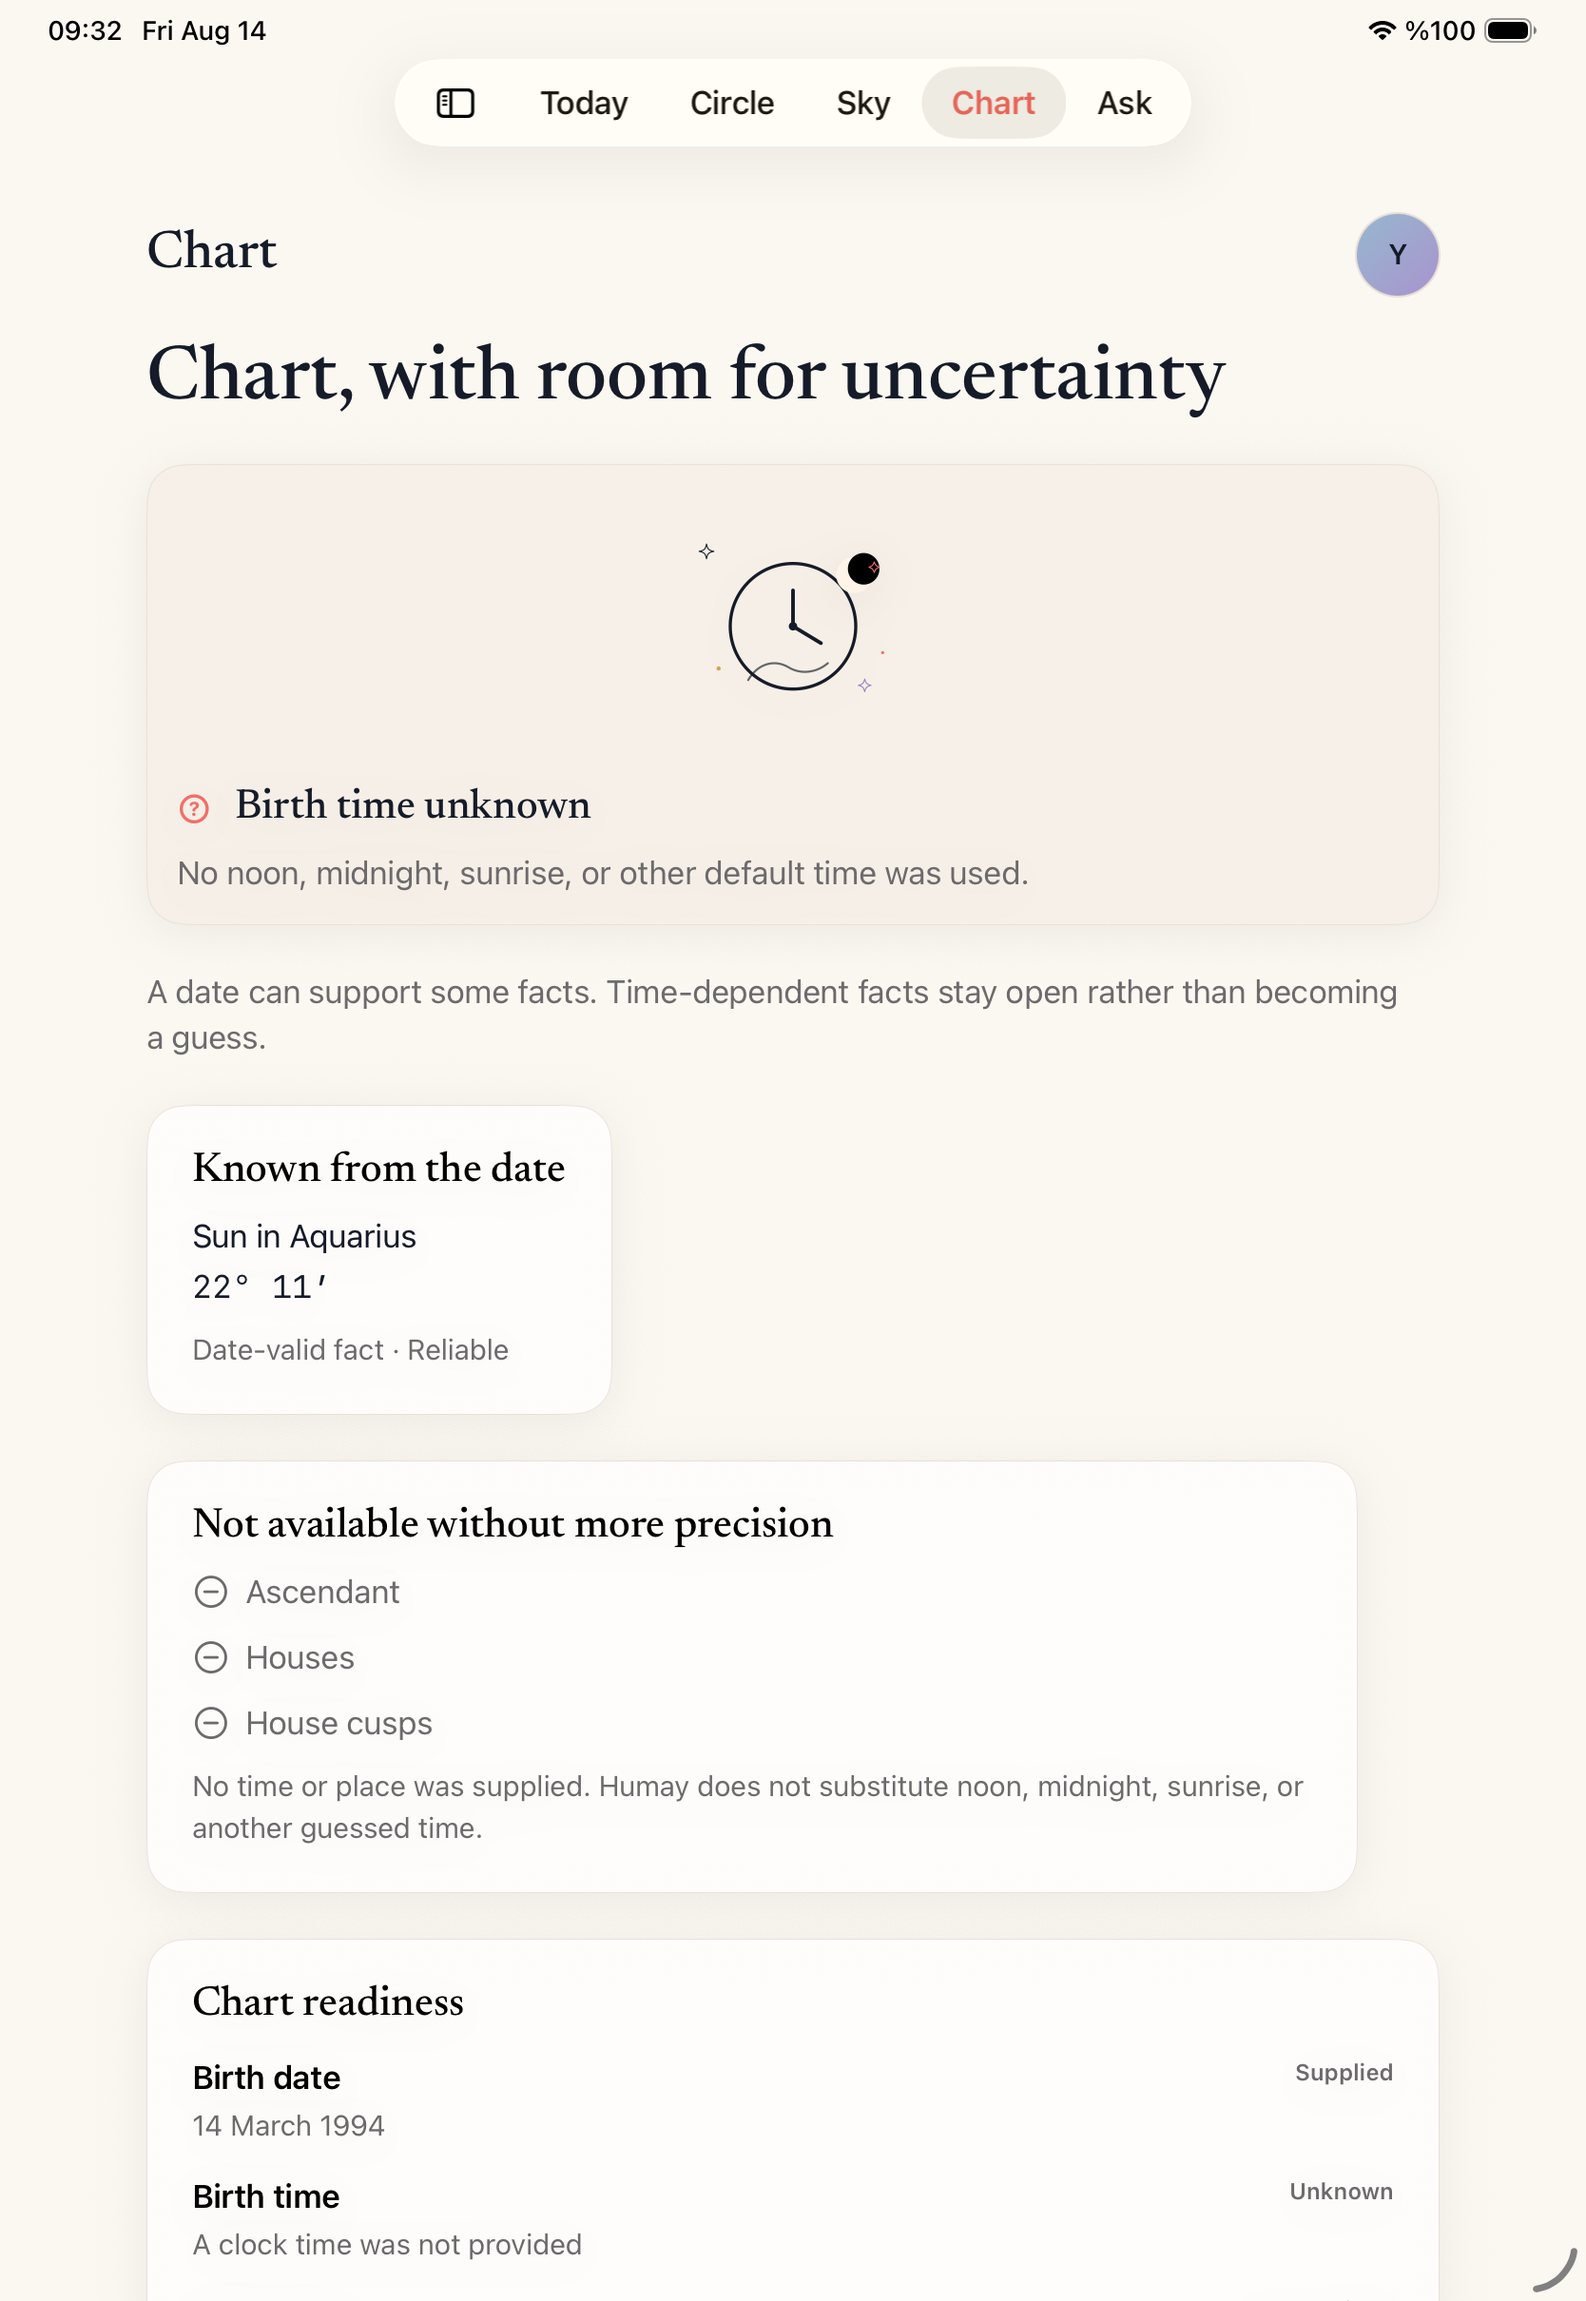
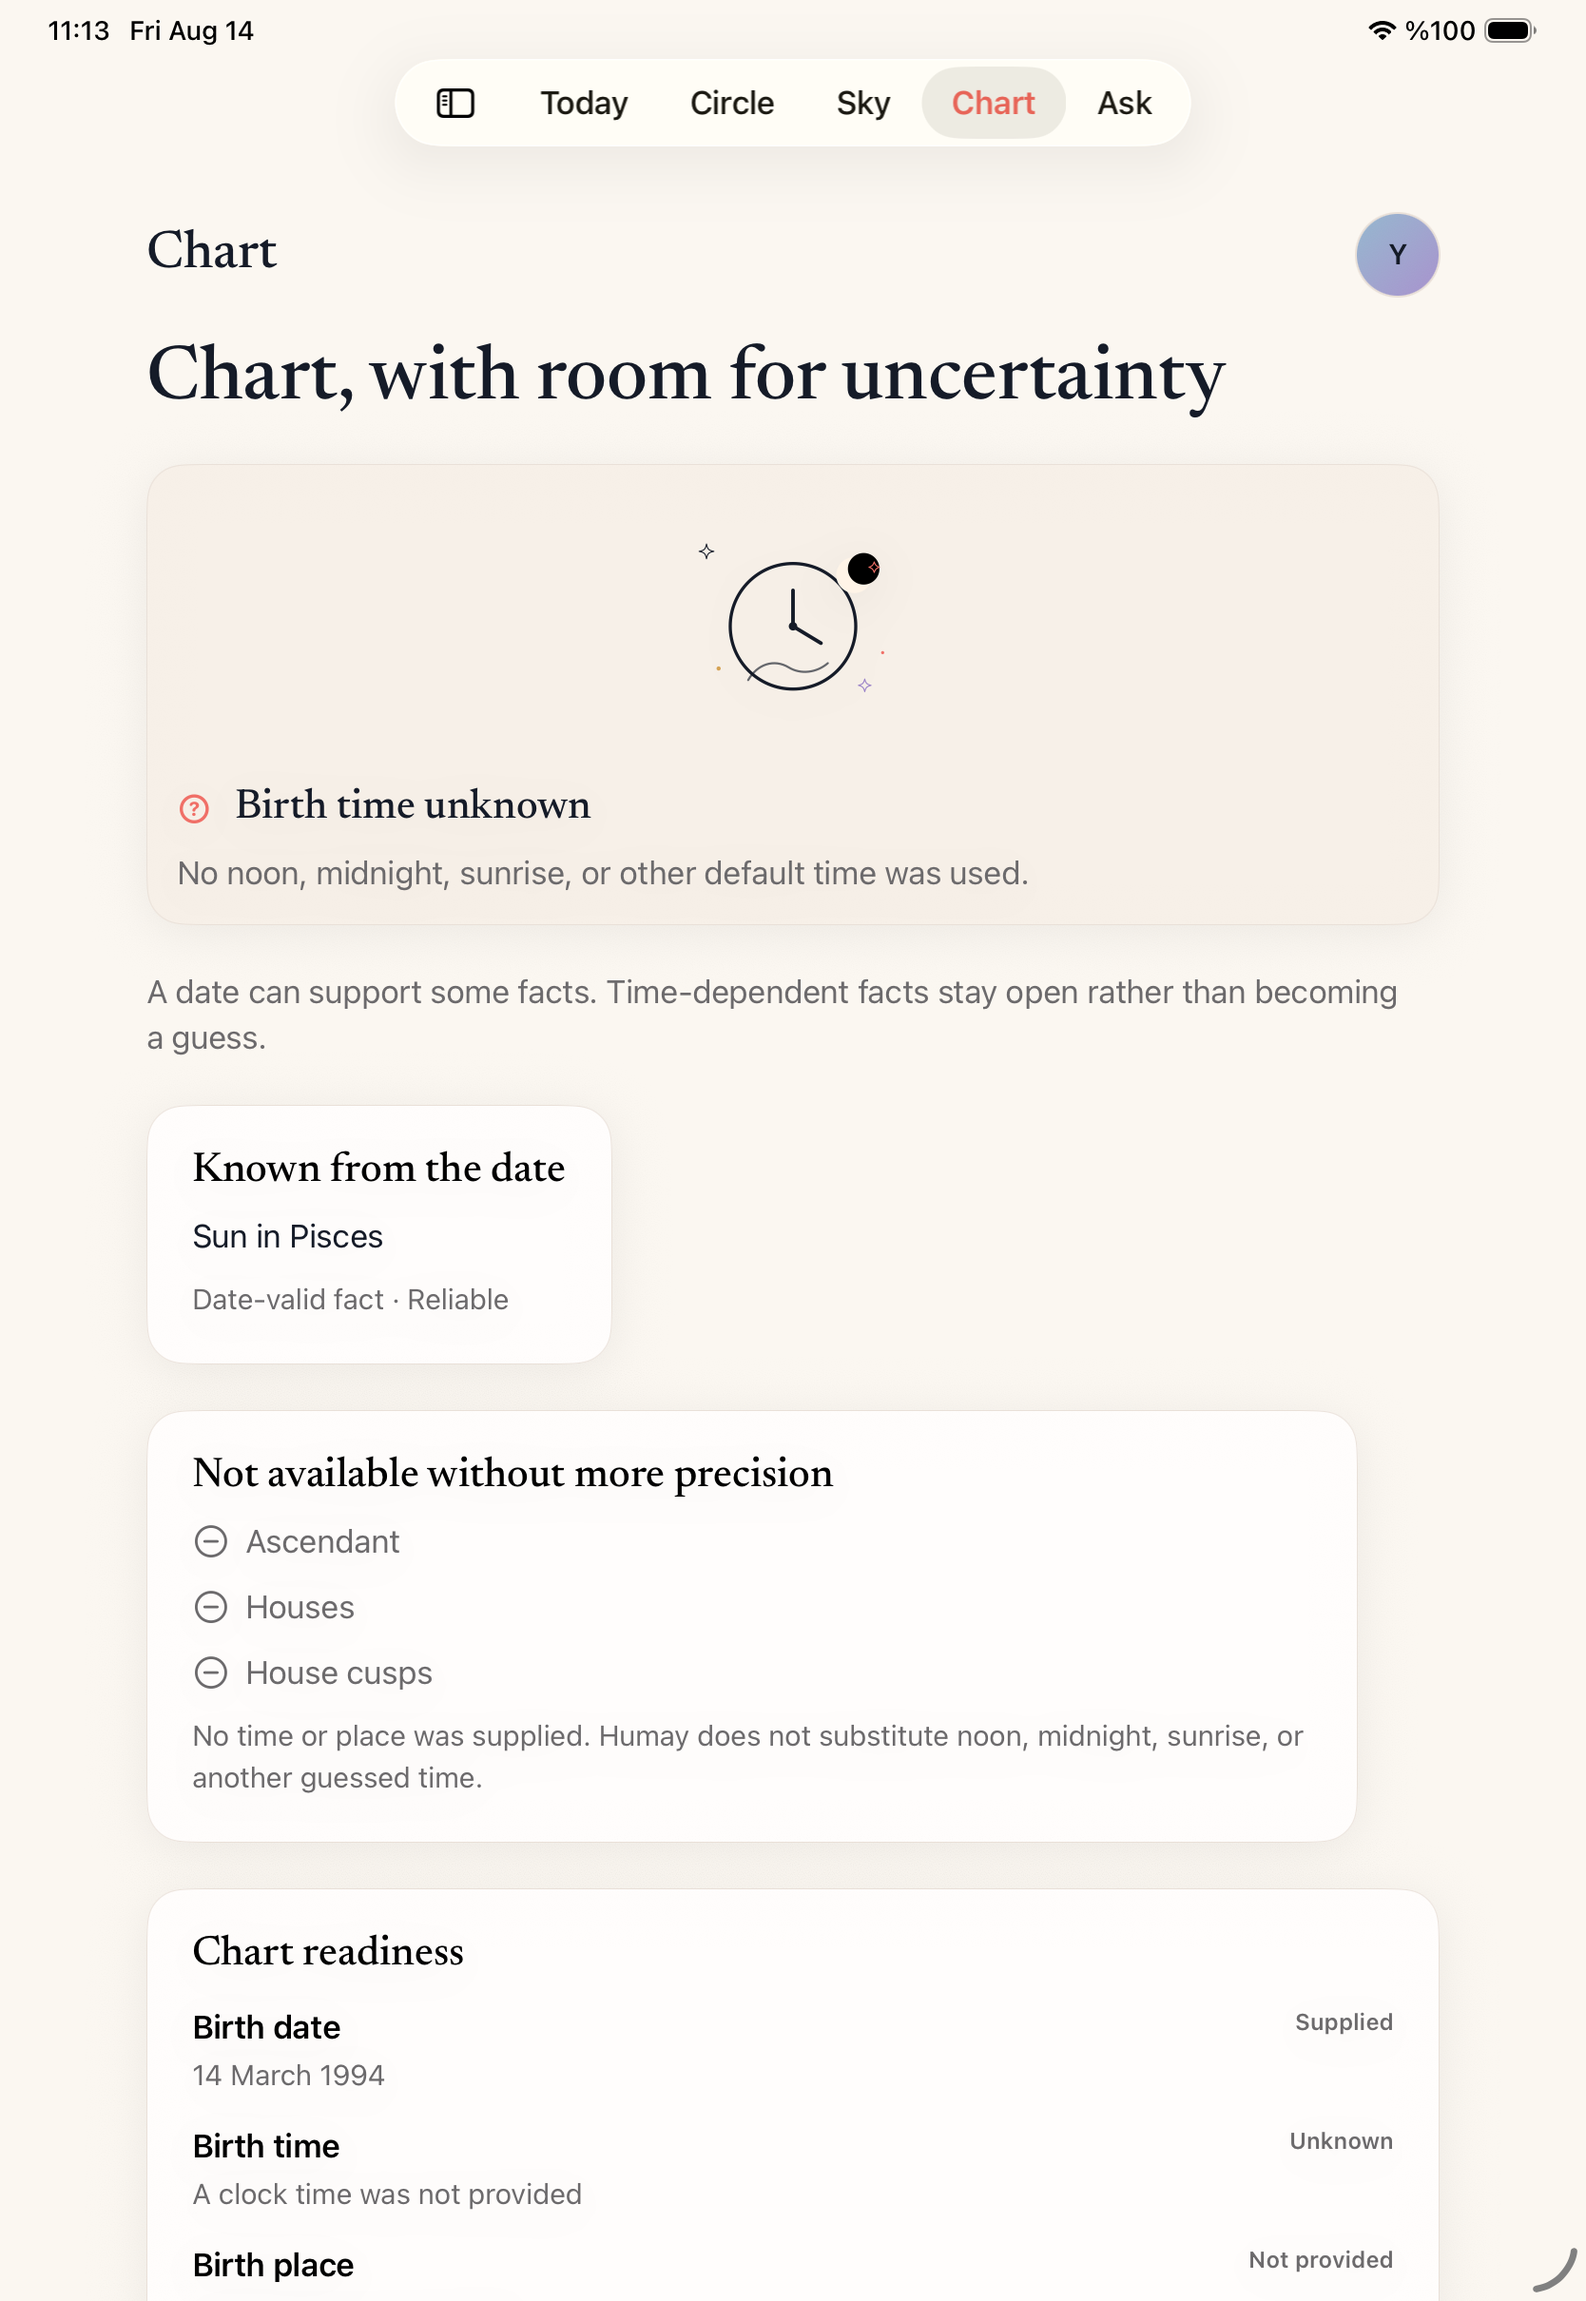
Refine unknown-time chart fact precision

diff --git a/HumayTests/D4FeatureModelTests.swift b/HumayTests/D4FeatureModelTests.swift
@@ -104,12 +104,19 @@ struct D4FeatureModelTests {
 
         #expect(missingInputs == [.birthTime, .birthPlace])
         #expect(unknownTime.knownFact.point == .sun)
-        #expect(unknownTime.knownFact.house == nil)
+        #expect(unknownTime.knownFact.sign == .pisces)
+        #expect(unknownTime.knownFact.reliability == .reliable)
+        let storedPropertyNames = Set(Mirror(reflecting: unknownTime.knownFact).children.compactMap(\.label))
+        #expect(storedPropertyNames.contains("point"))
+        #expect(storedPropertyNames.contains("sign"))
+        #expect(storedPropertyNames.contains("reliability"))
+        #expect(!storedPropertyNames.contains("position"))
+        #expect(!storedPropertyNames.contains("degree"))
+        #expect(!storedPropertyNames.contains("house"))
         #expect(unknownTime.withheldFacts.contains(.ascendant))
         #expect(unknownTime.withheldFacts.contains(.houses))
         #expect(input.chart.payload == nil)
         #expect(unknownTime.readiness.birthTime == .unknown)
-        #expect(unknownTime.knownFact.factText == "Sun in Aquarius at 22° 11′")
 
         let readiness = DevelopmentD4Sample.unknownTimeReadiness
         #expect(readiness.birthTime == .unknown)

diff --git a/Humay/Presentation/Chart/ChartView.swift b/Humay/Presentation/Chart/ChartView.swift
@@ -389,11 +389,8 @@ private struct ChartUnknownTimeState: View {
                             .font(HumayTypography.sectionTitle)
                             .accessibilityIdentifier("chart.unknown-time.known-facts")
                         VStack(alignment: .leading, spacing: HumaySpacing.extraSmall) {
-                            Text("\(context.knownFact.point.label) in \(context.knownFact.position.sign.displayName)")
+                            Text("\(context.knownFact.point.label) in \(context.knownFact.sign.displayName)")
                                 .font(HumayTypography.body)
-                                .foregroundStyle(Color.humayTextPrimary)
-                            Text(context.knownFact.degreeText)
-                                .font(HumayTypography.technical)
                                 .foregroundStyle(Color.humayTextPrimary)
                         }
                         .accessibilityElement(children: .combine)

diff --git a/Humay/Presentation/D4/DevelopmentD4Sample.swift b/Humay/Presentation/D4/DevelopmentD4Sample.swift
@@ -64,13 +64,10 @@ enum DevelopmentD4Sample {
     static let unknownTimeContext = ChartUnknownTimeContext(
         dateLabel: "14 March 1994",
         readiness: unknownTimeReadiness,
-        knownFact: ChartPlacement(
+        knownFact: ChartDateKnownFact(
             point: .sun,
-            position: position(322.1833),
-            house: nil,
-            reliability: .reliable,
-            interpretationTitle: "A date-valid starting point.",
-            interpretationBody: "The Sun sign is shown because it is supported by the supplied date. Other precision-dependent facts stay withheld."
+            sign: .pisces,
+            reliability: .reliable
         ),
         withheldFacts: [.ascendant, .houses, .houseCusps],
         explanation: "No time or place was supplied. Humay does not substitute noon, midnight, sunrise, or another guessed time."

diff --git a/HumayUITests/LaunchUITests.swift b/HumayUITests/LaunchUITests.swift
@@ -662,8 +662,8 @@ final class LaunchUITests: XCTestCase {
             element("chart.unknown-time.known-facts", in: app).exists
                 || app.staticTexts["Known from the date"].exists
         )
-        XCTAssertTrue(app.staticTexts["Sun in Aquarius"].exists)
-        XCTAssertTrue(app.staticTexts["22° 11′"].exists)
+        XCTAssertTrue(app.staticTexts["Sun in Pisces"].exists)
+        XCTAssertFalse(app.staticTexts["22° 11′"].exists)
         app.swipeUp()
         XCTAssertTrue(
             element("chart.unknown-time.withheld", in: app).exists

diff --git a/Humay/Presentation/D4/D4FeatureState.swift b/Humay/Presentation/D4/D4FeatureState.swift
@@ -121,10 +121,16 @@ enum ChartWithheldFact: String, Sendable, Hashable, CaseIterable {
     }
 }
 
+struct ChartDateKnownFact: Sendable, Hashable {
+    let point: ChartPoint
+    let sign: WesternZodiacSign
+    let reliability: AstrologyFactReliability
+}
+
 struct ChartUnknownTimeContext: Sendable, Hashable {
     let dateLabel: String
     let readiness: ChartReadiness
-    let knownFact: ChartPlacement
+    let knownFact: ChartDateKnownFact
     let withheldFacts: [ChartWithheldFact]
     let explanation: String
 }

diff --git a/docs/design/implementation-evidence/d4-chart/README.md b/docs/design/implementation-evidence/d4-chart/README.md
@@ -31,7 +31,7 @@ Additional stress capture:
 - Loaded Western uses typed `ChartWheelModel` placements/aspects/houses and a separate ordered placement route. The wheel is not the only representation.
 - Loaded Debug sample routes show one quiet disclosure: “Development sample · not calculated”. Free Preview and Unknown Time remain product-facing surfaces without development notices.
 - Known-time sample values are fixed presentation fixtures: Sun Aquarius 22° 11′, Moon Libra 14° 27′, Ascendant Gemini 03° 02′, Moon 5th house and Sun trine Moon.
-- Unknown time keeps the supplied date fact, explicitly shows the missing time/place, withholds Ascendant/houses/cusps, and never supplies noon, midnight, sunrise or another guessed time.
+- Unknown time exposes only date-level facts supported by the supplied precision, explicitly shows the missing time/place, withholds Ascendant/houses/cusps and exact placement degrees, and never supplies noon, midnight, sunrise or another guessed time.
 - iPad regular width uses a bounded chart/detail composition; narrow content reflows toward one ordered column. Big Three cards do not rely on color alone and remain text-readable.
 - Fact rows precede interpretation in Placement Detail. Degree values use the reserved technical typography role; sign names, body names, houses and prose use semantic Humay roles.
 - Native navigation owns Back. Existing root-tab safe-area behavior remains the source of tab clearance; no arbitrary large bottom padding was added.
@@ -40,7 +40,7 @@ Additional stress capture:
 
 - Free Preview copy now describes Chart, birth-data readiness and the precision more complete birth details can unlock; implementation status is not exposed in product UI.
 - `-HumayD4Route` was removed. UI tests enter Chart, open Western Chart, open Moon Placement Detail and return through native navigation.
-- Unknown Time splits the date-valid fact into normal sign/body text and technical degree text.
+- Unknown Time keeps the date-valid fact at sign/body level; it does not expose an exact placement degree when birth time is unknown.
 - `ChartDegreeFormatter` normalizes rounded arcminutes into `0°00′ ... 29°59′`, including boundary, negative and over-range inputs.
 - Release-safe composition remains `Free Preview` with no `ChartPayload`; no sample placements, houses, interpretations or development disclosure cross into production.
 - Canonical verification passes: `verify-foundation: OK`.

diff --git a/docs/design/soulful-reference/chart/foundation/design-spec.md b/docs/design/soulful-reference/chart/foundation/design-spec.md
@@ -270,15 +270,23 @@ Reference-only authored assets proposed:
 - partial-sky / unknown-time visual cue;
 - restrained wheel anatomy marks and accessible legend.
 
-Keep these inside the D4.1 package until approval. Do not modify `Assets.xcassets` in this pass. Prefer scalable SVG.
+Keep these inside the D4.1 package. Do not modify `Assets.xcassets` in this pass. Prefer scalable SVG.
 
 ## 14. Approval boundary
 
-This package is not approved. Product-owner review must explicitly confirm:
+D4.1 is approved, implemented and reconciled for the UI-first foundation.
 
-- Free entry does not imply a calculated natal chart;
-- unknown time/place treatment is prominent and humane;
-- wheel/list composition is readable on iPhone and useful on iPad;
-- access language stays separate from calculation truth;
-- typography roles remain globally consistent;
-- methodology gates remain visible and unresolved.
+Still NOT completed:
+
+- production calculation;
+- provider integration;
+- CHART-002;
+- ASTRO-003;
+- cache;
+- access;
+- entitlement;
+- rewarded ads;
+- methodology gates;
+- Vedic;
+- BaZi;
+- Compare Systems.
